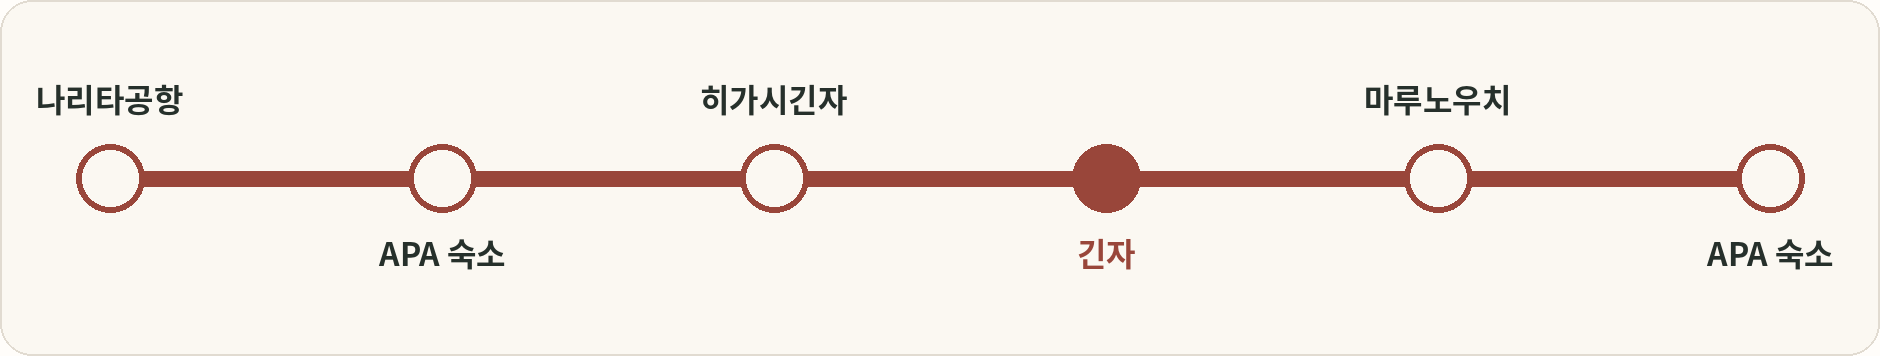
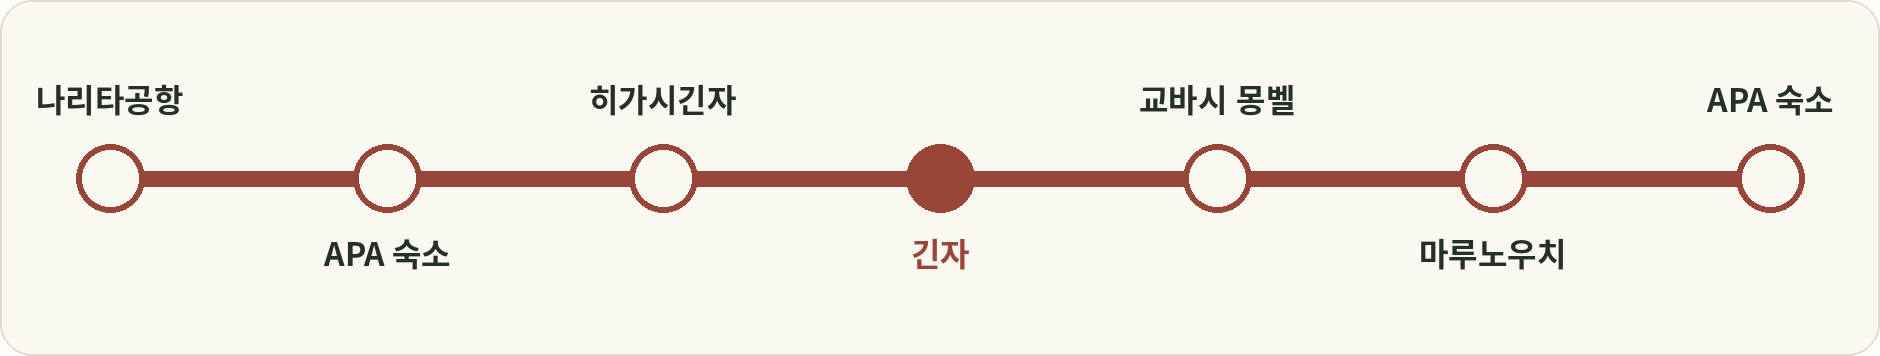
Add Montbell Tokyo Kyobashi to the first day

diff --git a/index.html b/index.html
@@ -32,7 +32,7 @@
 <section id="shops" class="section"><div class="sectionhead"><div><span class="sectionindex">05 / Collected in Tokyo</span><h2>쇼핑 · 카페 · 맛집</h2></div><p>전당포·중고 명품 쇼핑은 11/28 긴자 일정에 포함했어요.<br>♡를 누르면 이 브라우저에 저장돼요.</p></div><div class="shoptabs" id="shopfilters"></div><div class="shopgrid" id="shopsgrid"></div><div class="callout">중고 상품의 재고는 매일 달라질 수 있어요. 같은 모델도 상태·크기·연식·수선·부속품을 함께 비교하세요. 매장 임시휴무는 출발 전 공식 채널 확인. ELEPHANT는 일요일 일반 영업, proto는 화요일 12시 개점. 사진 속 스키야키 링크는 우나후지와 같아 식당명이 확인되지 않았어요. 우나후지 도쿄 오페라시티점은 11/29(일) 17:00~19:00 예약 확정이에요.</div></section>
 <section id="taxrefund" class="section"><div class="sectionhead"><div><span class="sectionindex">Shopping guide / 2026.11.25 확인</span><h2>매장별 면세 & 출국 환급</h2></div><p>11/28~12/1 여행에는 새 리펀드 방식 적용.<br>면세 대응 확인은 환급액·수수료까지 확정됐다는 뜻은 아니에요.</p></div>
 <div class="callout"><strong>세금 포함 결제 → 매장 면세 등록 → 짐 맡기기 전 세관 확인 → 매장·환급업체 환급</strong><p>모든 가게가 참여하는 제도는 아니에요. 영수증만 공항으로 가져가면 되는 것도 아니므로 구매할 때 반드시 면세 처리를 요청하세요. 여행 예산은 환급 전 지출액 기준으로 잡고, 환급액은 확정 전 미리 차감하지 않아요.</p></div>
-<details open class="taxdetails"><summary>방문 매장별 면세 여부</summary><p>‘확인 필요’는 면세 불가라는 뜻이 아닙니다. 스투시 다른 지점·Spiral 다른 지점의 면세 여부를 이번 방문 지점에 그대로 적용하지 않았어요. 다치바나는 일정 제외 매장으로 참고만 남겨 두었어요.</p><div class="tablewrap"><table class="taxtable"><thead><tr><th>방문 매장</th><th>구분</th><th>조건·확인할 내용</th></tr></thead><tbody><tr><th scope="row">BRAND OFF 긴자 본점</th><td><b>면세 대응 확인</b></td><td>긴자 본점 공식 면세 표시. 환급 수단·수수료·지급 시점은 결제 전 확인. <a target="_blank" rel="noopener noreferrer" href="https://www.brandoff.co.jp/shop_list/shop.php?shop=010_ginza_head">확인 출처</a></td></tr><tr><th scope="row">KOMEHYO GINZA</th><td><b>면세 대응 확인</b></td><td>긴자점 공식 Tax Free 표시. 중고 상품도 구매 조건을 충족하면 신청 가능. <a target="_blank" rel="noopener noreferrer" href="https://komehyo.jp/kaitori/shop/ginza">확인 출처</a></td></tr><tr><th scope="row">다이코쿠야 긴자점</th><td><b>확인 필요</b></td><td>체인 공식 매장 면세 안내는 있으나 오래된 금액 기준이 남아 있어 긴자점의 새 제도 대응을 재확인. <a target="_blank" rel="noopener noreferrer" href="https://corporate.daikokuya.com/index_en.html">확인 출처</a></td></tr><tr><th scope="row">WATCHNIAN 긴자 5초메</th><td><b>면세 대응 확인</b></td><td>공식 FAQ상 매장 구매 면세 지원, 온라인 제외. 해당 상품과 환급 절차 확인. <a target="_blank" rel="noopener noreferrer" href="https://watchnian.com/shop/pages/faq.aspx">확인 출처</a></td></tr><tr><th scope="row">Spiral Market 아오야마</th><td><b>확인 필요</b></td><td>방문 지점의 관광객 면세·새 환급 방식 안내를 공식 공개 정보에서 확인하지 못했어요. 불가 확정이 아니며 결제 전에 물어보세요. <a target="_blank" rel="noopener noreferrer" href="https://www.spiral.co.jp/shoplist/spiral_market">확인 출처</a></td></tr><tr><th scope="row">ELEPHANT</th><td><b>확인 필요</b></td><td>방문 지점의 관광객 면세·새 환급 방식 안내를 공식 공개 정보에서 확인하지 못했어요. 불가 확정이 아니며 결제 전에 물어보세요. <a target="_blank" rel="noopener noreferrer" href="https://elephant-life.com/pages/shop-information">확인 출처</a></td></tr><tr><th scope="row">d47 design travel store</th><td><b>확인 필요</b></td><td>방문 지점의 관광객 면세·새 환급 방식 안내를 공식 공개 정보에서 확인하지 못했어요. 불가 확정이 아니며 결제 전에 물어보세요. <a target="_blank" rel="noopener noreferrer" href="https://www.d-department.com/ext/shop/d47.html">확인 출처</a></td></tr><tr><th scope="row">道具屋 nobori</th><td><b>확인 필요</b></td><td>방문 지점의 관광객 면세·새 환급 방식 안내를 공식 공개 정보에서 확인하지 못했어요. 불가 확정이 아니며 결제 전에 물어보세요. <a target="_blank" rel="noopener noreferrer" href="https://fromafar.stores.jp/about">확인 출처</a></td></tr><tr><th scope="row">proto 器とタカラモノ</th><td><b>확인 필요</b></td><td>방문 지점의 관광객 면세·새 환급 방식 안내를 공식 공개 정보에서 확인하지 못했어요. 불가 확정이 아니며 결제 전에 물어보세요. <a target="_blank" rel="noopener noreferrer" href="https://proto-art.stores.jp/about">확인 출처</a></td></tr><tr><th scope="row">GLITCH COFFEE GINZA</th><td><b>음료 대상 아님</b></td><td>매장에서 마시는 커피는 대상 제외. 반출할 원두·굿즈 판매의 면세 대응은 별도 확인. <a target="_blank" rel="noopener noreferrer" href="https://www.customs.go.jp/kaigairyoko/taxrefund.htm">확인 출처</a></td></tr><tr><th scope="row">BEAMS GINZA</th><td><b>면세 대응 확인</b></td><td>긴자점 공식 면세 표시. 환급 수단·수수료는 매장 안내 확인. <a target="_blank" rel="noopener noreferrer" href="https://www.beams.co.jp/shop/gnz/">확인 출처</a></td></tr><tr><th scope="row">미야코시야 커피 긴자점</th><td><b>음료 대상 아님</b></td><td>매장에서 마시는 커피는 대상 제외. 반출할 원두·상품은 매장에 따로 확인. <a target="_blank" rel="noopener noreferrer" href="https://www.customs.go.jp/kaigairyoko/taxrefund.htm">확인 출처</a></td></tr><tr><th scope="row">파블로프 · GINZA SIX</th><td><b>조건부·확인 필요</b></td><td>SIX 1층에 면세 카운터가 있지만 파블로프 참여·합산·수수료는 확인 필요. 일본에서 먹을 과자는 대상 제외. <a target="_blank" rel="noopener noreferrer" href="https://ginza6.tokyo/services/">확인 출처</a></td></tr><tr><th scope="row">긴자 다치바나</th><td><b>확인 필요</b></td><td>방문 지점의 관광객 면세·새 환급 방식 안내를 공식 공개 정보에서 확인하지 못했어요. 불가 확정이 아니며 결제 전에 물어보세요. <a target="_blank" rel="noopener noreferrer" href="https://ginza.kokosil.net/ja/place/00001c0000000000000200000016b86a">확인 출처</a></td></tr><tr><th scope="row">야마야 긴자</th><td><b>확인 필요</b></td><td>과거 공식 면세 대상 지점에 포함. 2026년 11월 이후 해당 지점 환급 방식·운영 여부 재확인. <a target="_blank" rel="noopener noreferrer" href="https://www.yamaya.jp/pages/cp/press/data/file194.pdf">확인 출처</a></td></tr><tr><th scope="row">리커 마운틴 긴자 777</th><td><b>면세 대응 확인</b></td><td>해당 지점 공식 면세점 표시. 위스키는 일본에서 마시지 않고 직접 반출. <a target="_blank" rel="noopener noreferrer" href="https://www.likaman.co.jp/shop/tokyo/chuo-ku/8466.html">확인 출처</a></td></tr><tr><th scope="row">우나후지 도쿄 오페라시티점</th><td><b>대상 아님</b></td><td>예약한 식사·음료는 일본에서 소비하므로 관광객 물품 면세 대상이 아니에요. <a target="_blank" rel="noopener noreferrer" href="https://www.customs.go.jp/kaigairyoko/taxrefund.htm">확인 출처</a></td></tr><tr><th scope="row">아사히 스카이룸</th><td><b>대상 아님</b></td><td>현장에서 마시는 맥주·식사는 물품 면세 대상이 아니에요. <a target="_blank" rel="noopener noreferrer" href="https://www.customs.go.jp/kaigairyoko/taxrefund.htm">확인 출처</a></td></tr><tr><th scope="row">Stüssy 하라주쿠</th><td><b>확인 필요</b></td><td>방문 지점의 관광객 면세·새 환급 방식 안내를 공식 공개 정보에서 확인하지 못했어요. 불가 확정이 아니며 결제 전에 물어보세요. <a target="_blank" rel="noopener noreferrer" href="https://jp.stussy.com/blogs/chapters/stussy-harajuku">확인 출처</a></td></tr><tr><th scope="row">디즈니랜드 파크 내 굿즈</th><td><b>면세 불가</b></td><td>공식 FAQ에서 파크 내 판매 상품의 면세 불가 안내. <a target="_blank" rel="noopener noreferrer" href="https://faq-en.tokyodisneyresort.jp/answer/680ba054d7820362f46c7d8e/">공식 FAQ</a></td></tr></tbody></table></div></details>
+<details open class="taxdetails"><summary>방문 매장별 면세 여부</summary><p>‘확인 필요’는 면세 불가라는 뜻이 아닙니다. 스투시 다른 지점·Spiral 다른 지점의 면세 여부를 이번 방문 지점에 그대로 적용하지 않았어요. 다치바나는 일정 제외 매장으로 참고만 남겨 두었어요.</p><div class="tablewrap"><table class="taxtable"><thead><tr><th>방문 매장</th><th>구분</th><th>조건·확인할 내용</th></tr></thead><tbody><tr><th scope="row">BRAND OFF 긴자 본점</th><td><b>면세 대응 확인</b></td><td>긴자 본점 공식 면세 표시. 환급 수단·수수료·지급 시점은 결제 전 확인. <a target="_blank" rel="noopener noreferrer" href="https://www.brandoff.co.jp/shop_list/shop.php?shop=010_ginza_head">확인 출처</a></td></tr><tr><th scope="row">KOMEHYO GINZA</th><td><b>면세 대응 확인</b></td><td>긴자점 공식 Tax Free 표시. 중고 상품도 구매 조건을 충족하면 신청 가능. <a target="_blank" rel="noopener noreferrer" href="https://komehyo.jp/kaitori/shop/ginza">확인 출처</a></td></tr><tr><th scope="row">다이코쿠야 긴자점</th><td><b>확인 필요</b></td><td>체인 공식 매장 면세 안내는 있으나 오래된 금액 기준이 남아 있어 긴자점의 새 제도 대응을 재확인. <a target="_blank" rel="noopener noreferrer" href="https://corporate.daikokuya.com/index_en.html">확인 출처</a></td></tr><tr><th scope="row">WATCHNIAN 긴자 5초메</th><td><b>면세 대응 확인</b></td><td>공식 FAQ상 매장 구매 면세 지원, 온라인 제외. 해당 상품과 환급 절차 확인. <a target="_blank" rel="noopener noreferrer" href="https://watchnian.com/shop/pages/faq.aspx">확인 출처</a></td></tr><tr><th scope="row">Spiral Market 아오야마</th><td><b>확인 필요</b></td><td>방문 지점의 관광객 면세·새 환급 방식 안내를 공식 공개 정보에서 확인하지 못했어요. 불가 확정이 아니며 결제 전에 물어보세요. <a target="_blank" rel="noopener noreferrer" href="https://www.spiral.co.jp/shoplist/spiral_market">확인 출처</a></td></tr><tr><th scope="row">ELEPHANT</th><td><b>확인 필요</b></td><td>방문 지점의 관광객 면세·새 환급 방식 안내를 공식 공개 정보에서 확인하지 못했어요. 불가 확정이 아니며 결제 전에 물어보세요. <a target="_blank" rel="noopener noreferrer" href="https://elephant-life.com/pages/shop-information">확인 출처</a></td></tr><tr><th scope="row">d47 design travel store</th><td><b>확인 필요</b></td><td>방문 지점의 관광객 면세·새 환급 방식 안내를 공식 공개 정보에서 확인하지 못했어요. 불가 확정이 아니며 결제 전에 물어보세요. <a target="_blank" rel="noopener noreferrer" href="https://www.d-department.com/ext/shop/d47.html">확인 출처</a></td></tr><tr><th scope="row">道具屋 nobori</th><td><b>확인 필요</b></td><td>방문 지점의 관광객 면세·새 환급 방식 안내를 공식 공개 정보에서 확인하지 못했어요. 불가 확정이 아니며 결제 전에 물어보세요. <a target="_blank" rel="noopener noreferrer" href="https://fromafar.stores.jp/about">확인 출처</a></td></tr><tr><th scope="row">proto 器とタカラモノ</th><td><b>확인 필요</b></td><td>방문 지점의 관광객 면세·새 환급 방식 안내를 공식 공개 정보에서 확인하지 못했어요. 불가 확정이 아니며 결제 전에 물어보세요. <a target="_blank" rel="noopener noreferrer" href="https://proto-art.stores.jp/about">확인 출처</a></td></tr><tr><th scope="row">GLITCH COFFEE GINZA</th><td><b>음료 대상 아님</b></td><td>매장에서 마시는 커피는 대상 제외. 반출할 원두·굿즈 판매의 면세 대응은 별도 확인. <a target="_blank" rel="noopener noreferrer" href="https://www.customs.go.jp/kaigairyoko/taxrefund.htm">확인 출처</a></td></tr><tr><th scope="row">BEAMS GINZA</th><td><b>면세 대응 확인</b></td><td>긴자점 공식 면세 표시. 환급 수단·수수료는 매장 안내 확인. <a target="_blank" rel="noopener noreferrer" href="https://www.beams.co.jp/shop/gnz/">확인 출처</a></td></tr><tr><th scope="row">미야코시야 커피 긴자점</th><td><b>음료 대상 아님</b></td><td>매장에서 마시는 커피는 대상 제외. 반출할 원두·상품은 매장에 따로 확인. <a target="_blank" rel="noopener noreferrer" href="https://www.customs.go.jp/kaigairyoko/taxrefund.htm">확인 출처</a></td></tr><tr><th scope="row">파블로프 · GINZA SIX</th><td><b>조건부·확인 필요</b></td><td>SIX 1층에 면세 카운터가 있지만 파블로프 참여·합산·수수료는 확인 필요. 일본에서 먹을 과자는 대상 제외. <a target="_blank" rel="noopener noreferrer" href="https://ginza6.tokyo/services/">확인 출처</a></td></tr><tr><th scope="row">긴자 다치바나</th><td><b>확인 필요</b></td><td>방문 지점의 관광객 면세·새 환급 방식 안내를 공식 공개 정보에서 확인하지 못했어요. 불가 확정이 아니며 결제 전에 물어보세요. <a target="_blank" rel="noopener noreferrer" href="https://ginza.kokosil.net/ja/place/00001c0000000000000200000016b86a">확인 출처</a></td></tr><tr><th scope="row">야마야 긴자</th><td><b>확인 필요</b></td><td>과거 공식 면세 대상 지점에 포함. 2026년 11월 이후 해당 지점 환급 방식·운영 여부 재확인. <a target="_blank" rel="noopener noreferrer" href="https://www.yamaya.jp/pages/cp/press/data/file194.pdf">확인 출처</a></td></tr><tr><th scope="row">리커 마운틴 긴자 777</th><td><b>면세 대응 확인</b></td><td>해당 지점 공식 면세점 표시. 위스키는 일본에서 마시지 않고 직접 반출. <a target="_blank" rel="noopener noreferrer" href="https://www.likaman.co.jp/shop/tokyo/chuo-ku/8466.html">확인 출처</a></td></tr><tr><th scope="row">우나후지 도쿄 오페라시티점</th><td><b>대상 아님</b></td><td>예약한 식사·음료는 일본에서 소비하므로 관광객 물품 면세 대상이 아니에요. <a target="_blank" rel="noopener noreferrer" href="https://www.customs.go.jp/kaigairyoko/taxrefund.htm">확인 출처</a></td></tr><tr><th scope="row">아사히 스카이룸</th><td><b>대상 아님</b></td><td>현장에서 마시는 맥주·식사는 물품 면세 대상이 아니에요. <a target="_blank" rel="noopener noreferrer" href="https://www.customs.go.jp/kaigairyoko/taxrefund.htm">확인 출처</a></td></tr><tr><th scope="row">Stüssy 하라주쿠</th><td><b>확인 필요</b></td><td>방문 지점의 관광객 면세·새 환급 방식 안내를 공식 공개 정보에서 확인하지 못했어요. 불가 확정이 아니며 결제 전에 물어보세요. <a target="_blank" rel="noopener noreferrer" href="https://jp.stussy.com/blogs/chapters/stussy-harajuku">확인 출처</a></td></tr><tr><th scope="row">몽벨 도쿄 교바시점</th><td><b>면세 대응 확인</b></td><td>몽벨 공식 매장 안내에 면세 가능으로 표시돼요. 결제 전에 면세 등록과 환급 방법을 확인하세요. <a target="_blank" rel="noopener noreferrer" href="https://store.montbell.jp/search/shopinfo/?shop_no=678502">확인 출처</a></td></tr><tr><th scope="row">디즈니랜드 파크 내 굿즈</th><td><b>면세 불가</b></td><td>공식 FAQ에서 파크 내 판매 상품의 면세 불가 안내. <a target="_blank" rel="noopener noreferrer" href="https://faq-en.tokyodisneyresort.jp/answer/680ba054d7820362f46c7d8e/">공식 FAQ</a></td></tr></tbody></table></div></details>
 <div class="taxsteps">
 <article class="shopcard"><h3>1. 매장에서 결제하기 전</h3><p>일본 비거주 단기 관광객 등 대상 자격 확인을 위해 여권 원본을 지참해요. 같은 매장·같은 날 세전 5,000엔 이상이 기본 조건. 서로 다른 가게의 영수증은 임의 합산하지 말고, 쇼핑몰 합산은 카운터에 확인하세요.</p><p>직원에게 면세 환급을 요청하고 여권 정보를 등록해요. 환급 수단·수수료·예상 소요 기간·추가 신청 링크를 확인한 뒤 세금 포함 가격으로 결제하세요. 영수증과 신청 안내는 보관.</p><p><a href="https://www.gotokyo.org/en/plan/tax-free-shopping/index.html" target="_blank" rel="noopener noreferrer">대상 자격·구매 절차</a></p></article>
 <article class="shopcard"><h3>2. 쇼핑 중 보관</h3><p>소모품 특수 밀봉 의무가 없어져도 일본에서 먹거나 마신 물건은 환급받을 수 없어요. 여행 중 먹을 디저트와 한국으로 가져갈 선물은 계산을 나누는 편이 좋아요.</p><p>한 면세 거래의 물품 중 하나라도 반출 확인이 안 되면 그 거래 전체가 환급되지 않을 수 있어요. 일부를 소비했다면 단말로 그대로 신청하지 말고 세관 직원에게 알리세요. 환급용 위스키는 마시지 말고 보관해요.</p><p><a href="https://www.mlit.go.jp/kankocho/tax-free/page01_000001_00028.html" target="_blank" rel="noopener noreferrer">거래별 반출 확인 주의사항</a></p></article>
@@ -45,5 +45,5 @@
 <section id="sources" class="section"><div class="sectionhead"><div><span class="sectionindex">Source notes / Updated 2026.11.06</span><h2>가격의 기준과 공식 안내</h2></div><p>운임은 현재 공지·경로 검색의 참고금액.<br>출발일의 시간표·예약 화면에서 최종 확인하세요.</p></div><div class="sources" id="sourceslist"></div></section>
 </main><footer class="wrap"><span class="wordmark">our days<em>.</em></span><span>첫 번째 기념일을 위한 도쿄 노트 · 2026<br>계획용 일정 / 예약·결제 기능 없음</span><a href="#">맨 위로 ↑</a></footer>
 <div class="toast" id="toast" role="status" hidden></div>
-<script src="data.js"></script><script src="app.js?v=budget-5"></script>
+<script src="data.js?v=montbell-1"></script><script src="app.js?v=montbell-1"></script>
 </body></html>

diff --git a/app.js b/app.js
@@ -43,13 +43,13 @@
  const external=(url,text,cls='maplink')=>`<a class="${cls}" href="${esc(url)}" target="_blank" rel="noopener noreferrer">${esc(text)}</a>`;
  function toast(s){$('#toast').textContent=s;$('#toast').hidden=false;setTimeout(()=>$('#toast').hidden=true,2400);}
  const routeMapDescriptions=[
-  "나리타 제3터미널 → 공항철도로 히가시니혼바시 APA → 아사쿠사선으로 히가시긴자 → 도보로 긴자 쇼핑과 마루노우치 → 도쿄역에서 소부쾌속선으로 바쿠로초·APA.",
+  "나리타 제3터미널 → 공항철도로 히가시니혼바시 APA → 아사쿠사선으로 히가시긴자 → 도보로 긴자 쇼핑 → 교바시 몽벨 → 마루노우치 → 도쿄역에서 소부쾌속선으로 바쿠로초·APA.",
   "APA → 아사쿠사선·긴자선으로 가이엔마에 → 도보로 오모테산도와 하라주쿠 스투시 → 시부야역 서쪽 → 渋64 버스로 도쿄 오페라시티, 17시 우나후지 → 하쓰다이에서 게이오 신선·신주쿠선으로 바쿠로요코야마·APA. 요요기공원은 여유가 있을 때 들러요.",
   "바쿠로초 → 소부쾌속선으로 도쿄역 → 게이요선으로 마이하마 → 도보로 디즈니랜드. 17시 전후 퇴장 후 마이하마·도쿄역을 거쳐 APA로. 긴자가 선택이면 도쿄역에서 걸어가고 히가시긴자에서 아사쿠사선으로 복귀.",
   "APA → 아사쿠사선으로 아사쿠사 → 도보로 고토부키의 nobori와 구라마에의 proto → 아사쿠사선으로 APA에 돌아와 짐 찾기 → 공항철도로 나리타 제3터미널. 16:30 도착 목표."
 ];
  function routeMap(d) {
-  const file = `route-maps/day-${String(d.id + 1).padStart(2, '0')}.png?v=9`;
+  const file = `route-maps/day-${String(d.id + 1).padStart(2, '0')}.png?v=${d.id === 0 ? '10' : '9'}`;
   return `<figure class="route-map">
    <img src="${file}" width="1880" height="356" alt="${esc(routeMapDescriptions[d.id])}" loading="lazy" decoding="async">
    <figcaption><span>이동 순서도 · 축척 없음</span><a href="${file}" target="_blank" rel="noopener noreferrer" aria-label="${d.date} 이동 지도 크게 보기">지도 크게 보기</a></figcaption>
@@ -73,8 +73,9 @@
  };
  function routeLink(title){
  const points={'도쿄 오페라시티':'Tokyo Opera City','하쓰다이':'Hatsudai Station','나리타공항 제2·3터미널역':'Narita Airport Terminal 2 3 Station','공항 제2·3터미널역':'Narita Airport Terminal 2 3 Station','신바시':'Shimbashi Station Tokyo','신바시역':'Shimbashi Station Tokyo','호텔':T.hotel,'히가시니혼바시':'Higashi-nihombashi Station','바쿠로초':'Bakurocho Station','바쿠로요코야마':'Bakuro-yokoyama Station','히가시긴자':'Higashi-ginza Station','마루노우치':'Marunouchi Naka-dori Tokyo','도쿄역':'Tokyo Station Japan','도쿄':'Tokyo Station Japan','가이엔마에':'Gaiemmae Station Tokyo','가이엔':'Meiji Jingu Gaien Ginkgo Avenue','시부야':'Shibuya Station Tokyo','롯폰기':'Roppongi Station Tokyo','시오도메':'Shiodome Station Tokyo','마이하마':'Maihama Station Japan','마이하마역':'Maihama Station Japan','디즈니랜드':'Tokyo Disneyland','아사쿠사':'Sensoji Temple Tokyo','구라마에':'Kuramae Asakusa Line Station Tokyo','nobori':'Douguya nobori 3-7-1 Kotobuki','proto':'proto 4-20-12 Kuramae'};
- const parts=title.split('→').map(v=>v.trim());const walk=['도쿄역 → 긴자 → 히가시긴자','도쿄역 → 황궁 외원 → 히가시긴자','히가시니혼바시 → 호텔','히가시긴자 → 긴자 매장 → 마루노우치','가이엔 → 오모테산도 → 시부야','마이하마역 → 디즈니랜드','아사쿠사 → nobori → proto'].includes(title);
- return 'https://www.google.com/maps/dir/?api=1&origin='+encodeURIComponent(points[parts[0]]||parts[0]+' Tokyo Japan')+'&destination='+encodeURIComponent(points[parts[parts.length-1]]||parts[parts.length-1]+' Tokyo Japan')+(title.includes('황궁 외원')?'&waypoints='+encodeURIComponent('Nijubashi Bridge Tokyo|GINZA SIX'):'')+'&travelmode='+(walk?'walking':'transit');
+ const parts=title.split('→').map(v=>v.trim());const walk=['도쿄역 → 긴자 → 히가시긴자','도쿄역 → 황궁 외원 → 히가시긴자','히가시니혼바시 → 호텔','히가시긴자 → 긴자 매장 → 교바시 몽벨 → 마루노우치','가이엔 → 오모테산도 → 시부야','마이하마역 → 디즈니랜드','아사쿠사 → nobori → proto'].includes(title);
+ const waypoints=title.includes('교바시 몽벨')?'BRAND OFF Ginza Main Store|Mont-bell Tokyo Kyobashi Tokyo Square Garden':title.includes('황궁 외원')?'Nijubashi Bridge Tokyo|GINZA SIX':'';
+ return 'https://www.google.com/maps/dir/?api=1&origin='+encodeURIComponent(points[parts[0]]||parts[0]+' Tokyo Japan')+'&destination='+encodeURIComponent(points[parts[parts.length-1]]||parts[parts.length-1]+' Tokyo Japan')+(waypoints?'&waypoints='+encodeURIComponent(waypoints):'')+'&travelmode='+(walk?'walking':'transit');
  }
  function renderRoutes(){
  $('#routeControls').innerHTML=[...T.days.map(d=>`<button class="chip ${routeDay===d.id?'on':''}" data-route="${d.id}" aria-pressed="${routeDay===d.id}">${d.date}</button>`),`<button class="chip ${routeDay===-1?'on':''}" data-route="-1" aria-pressed="${routeDay===-1}">전체 구간</button>`].join('');

diff --git a/data.js b/data.js
@@ -41,9 +41,15 @@ window.TRIP = {
      "BRAND OFF Ginza Main Store"
     ],
     [
-     "18:30–20:30",
+     "18:30–19:10",
+     "몽벨 도쿄 교바시점",
+     "긴자 쇼핑 후 도보로 교바시역 3번 출구와 연결된 도쿄 스퀘어 가든 1·2층으로 이동. 아웃도어 의류·가방·소품 쇼핑. 매장 11:00–21:00, JR 도쿄역 야에스 남쪽 출구까지 도보 약 6분.",
+     "Mont-bell Tokyo Kyobashi Tokyo Square Garden"
+    ],
+    [
+     "19:10–20:30",
      "저녁 & 마루노우치 야경",
-     "긴자에서 도쿄역까지 걸으며 저녁·일루미네이션. 피곤하면 도쿄역 산책을 생략해도 좋아.",
+     "몽벨에서 도쿄역 쪽으로 걸어가 저녁을 먹고 마루노우치 일루미네이션을 봐요. 시간이 빠듯하면 야경 산책을 줄여요.",
      "Marunouchi Naka-dori Tokyo"
     ],
     [
@@ -79,12 +85,12 @@ window.TRIP = {
      "긴자식스·긴자 매장은 히가시긴자역에서 도보."
     ],
     [
-     "히가시긴자 → 긴자 매장 → 마루노우치",
+     "히가시긴자 → 긴자 매장 → 교바시 몽벨 → 마루노우치",
      "도보",
      "구간별 약 10~30분",
      "0",
      0,
-     "쇼핑 후 마루노우치 나카도리로 이동."
+     "긴자 쇼핑 뒤 교바시 몽벨에 들른 다음 도쿄역을 거쳐 마루노우치로 이동."
     ],
     [
      "도쿄역 → 바쿠로초",
@@ -668,6 +674,20 @@ window.TRIP = {
     "note": "방문 지점의 관광객 면세·새 환급 방식 안내를 공식 공개 정보에서 확인하지 못했어요. 불가 확정이 아니며 결제 전에 물어보세요.",
     "url": "https://jp.stussy.com/blogs/chapters/stussy-harajuku"
    }
+  ],
+  [
+   "몽벨 도쿄 교바시점",
+   "패션",
+   "긴자 쇼핑 다음 들르는 아웃도어 매장. 1층 의류·가방·소품, 2층 신발·캠핑용품.",
+   "교바시 3-1-1 · 도쿄 스퀘어 가든 1·2층 · 11:00–21:00",
+   "11/28 · 18:30",
+   "https://store.montbell.jp/search/shopinfo/?shop_no=678502",
+   "Mont-bell Tokyo Kyobashi Tokyo Square Garden",
+   {
+    "status": "면세 대응 확인",
+    "note": "몽벨 공식 매장 안내에 면세 가능으로 표시돼요. 결제 전에 면세 등록과 환급 방법을 확인하세요.",
+    "url": "https://store.montbell.jp/search/shopinfo/?shop_no=678502"
+   }
   ]
  ],
  "rides": [
@@ -804,6 +824,11 @@ window.TRIP = {
    "스투시 하라주쿠 공식 매장",
    "https://jp.stussy.com/blogs/chapters/stussy-harajuku",
    "진구마에 4-28-2 · 11~19시 · 면세는 미확인"
+  ],
+  [
+   "몽벨 도쿄 교바시점 공식 안내",
+   "https://store.montbell.jp/search/shopinfo/?shop_no=678502",
+   "교바시역 3번 출구 연결 · 영업시간과 면세 안내"
   ]
  ]
 };
